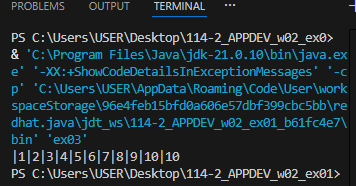
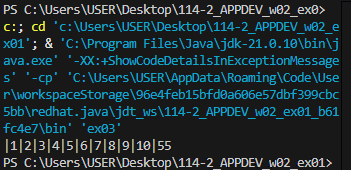
2

diff --git a/ex03.java b/ex03.java
@@ -4,7 +4,7 @@ public class ex03 {
         String str="";
         for(int i=1;i<=10;i++){
             str +="|" +i;
-            total=i;
+            total+=i;
      
         }
         System.out.println(str+="|"+total);
